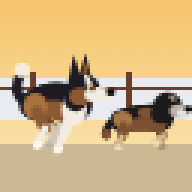
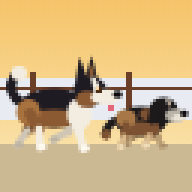
Vuelve a la animación anterior (patas articuladas, torso sin flexión)
Claude-Session: https://claude.ai/code/session_01MfGWskP1aoSAGPJyqTPNTu

Changed region(s): [[0.0312, 0.2812, 0.6562, 0.8125], [0.5312, 0.4688, 1.0, 0.7812], [0.5, 0.6875, 0.5312, 0.7188]]

diff --git a/index.html b/index.html
@@ -230,9 +230,8 @@ function ell(c, x, y, rx, ry, col, rot=0){ c.fillStyle=col; c.beginPath(); c.ell
 function rect(c, x, y, w, h, col){ c.fillStyle=col; c.fillRect(Math.round(x),Math.round(y),Math.round(w),Math.round(h)); }
 function poly(c, pts, col){ c.fillStyle=col; c.beginPath(); c.moveTo(pts[0],pts[1]); for(let i=2;i<pts.length;i+=2) c.lineTo(pts[i],pts[i+1]); c.closePath(); c.fill(); }
 
-// ---------- Perritas con columna flexible ----------
-// El galope de perros y gatos dobla la columna: se "recogen" (lomo arqueado, patas juntas bajo el cuerpo)
-// y se "estiran" (lomo largo, patas abiertas). Acá el torso es una curva que se arquea, se estira y se inclina.
+// ---------- Patas articuladas ----------
+// Ángulos medidos desde la vertical; positivo = hacia adelante. Cada pata tiene muslo, canilla y pie.
 function seg(c, x1, y1, x2, y2, w, col){ c.strokeStyle=col; c.lineWidth=w; c.lineCap="round"; c.beginPath(); c.moveTo(x1,y1); c.lineTo(x2,y2); c.stroke(); }
 function leg(c, hx, hy, L1, L2, a, b, w1, w2, c1, c2, paw){
   const kx = hx + Math.sin(a)*L1, ky = hy + Math.cos(a)*L1;
@@ -240,104 +239,108 @@ function leg(c, hx, hy, L1, L2, a, b, w1, w2, c1, c2, paw){
   seg(c, hx, hy, kx, ky, w1, c1); seg(c, kx, ky, px, py, w2, c2);
   ell(c, px + 0.6, py - 0.2, w2*0.62, w2*0.42, paw);
 }
+// Ciclo de galope: apoyo (la pata va de adelante hacia atrás, recta) y vuelo (se dobla y vuelve adelante)
 function gait(p, front){
   p = ((p % 1) + 1) % 1;
-  if(p < 0.5){ const u = p/0.5; return front ? [0.6 - 1.2*u, -0.05] : [0.7 - 1.2*u, -0.5 + 0.35*u]; }
-  const u = (p-0.5)/0.5, s = Math.sin(Math.PI*u);
-  return front ? [-0.6 + 1.2*u + 0.2*s, -1.6*s] : [-0.5 + 1.2*u, -0.15 - 1.3*s];
+  if(p < 0.55){ const u = p/0.55; return front ? [0.5 - 1.05*u, 0] : [0.55 - 1.0*u, -0.45 + 0.25*u]; }
+  const u = (p-0.55)/0.45, s = Math.sin(Math.PI*u);
+  return front ? [-0.55 + 1.05*u + 0.25*s, -1.5*s] : [-0.45 + 1.0*u, -0.2 - 1.2*s];
 }
-// pose: devuelve todo lo que cambia con el movimiento
-function pose(st, ph){
-  const P = Math.PI*2;
-  if(st==="run"){
-    const s = Math.cos(P*ph);                 // +1 recogida, -1 estirada
-    return { flex:s, arch: 1.2 + 2.6*Math.max(0,s), pitch: -0.07*Math.sin(P*ph), lift: 1.4*Math.max(0,-s) + 0.6*Math.abs(Math.sin(P*ph)),
-      legs: [gait(ph, false), gait(ph+.08, false), gait(ph+.5, true), gait(ph+.58, true)], tail: Math.sin(P*ph) };
-  }
-  if(st==="air") return { flex:-1, arch:.6, pitch:-.12, lift:0, legs:[[-0.95,0.5],[-0.8,0.4],[1.0,-0.9],[0.85,-0.7]], tail:-.6 };
-  if(st==="duck") return { flex:.6, arch:.4, pitch:.04, lift:-1, legs:[[0.95,-2.2],[0.85,-2.1],[1.3,-2.4],[1.2,-2.3]], tail:.3, duck:true };
-  return { flex:0, arch:1.4, pitch:0, lift:0, legs:[[0.25,-0.35],[0.1,-0.3],[0.05,0],[-0.05,0]], tail:0 };
-}
-function torso(c, H, S, arch, rH, rS, colBack, colBelly, belly){
-  const cx = (H[0]+S[0])/2, cy = (H[1]+S[1])/2 - arch;
-  const pts = [];
-  for(let i=0;i<=8;i++){ const u=i/8, v=1-u; pts.push([v*v*H[0]+2*v*u*cx+u*u*S[0], v*v*H[1]+2*v*u*cy+u*u*S[1], rH+(rS-rH)*u]); }
-  pts.forEach(([x,y,r])=> ell(c, x, y, r*1.15, r, colBack));
-  if(belly) pts.forEach(([x,y,r],i)=>{ if(i>0&&i<8) ell(c, x, y+r*.55, r*.95, r*.5, colBelly); });
-  return pts;
-}
-
-function drawDog(c, x, y, t, st, D){
-  const ph = (t*D.freq) % 1, p = pose(st, ph);
-  c.save(); c.translate(x, y);
-  const baseY = -D.height + (p.duck ? D.duckDrop : 0) - p.lift;
-  const reach = D.span/2 + p.flex*(-D.flexAmt);          // recogida: cadera y hombro más cerca
-  const mid = D.mid;
-  let H = [mid - reach, baseY + D.hipOff], S = [mid + reach, baseY];
-  // inclinación del cuerpo (pitch) alrededor del centro
-  const rot = (P)=>{ const dx=P[0]-mid, dy=P[1]-baseY; return [mid + dx*Math.cos(p.pitch) - dy*Math.sin(p.pitch), baseY + dx*Math.sin(p.pitch) + dy*Math.cos(p.pitch)]; };
-  H = rot(H); S = rot(S);
-  const L1 = p.duck ? D.L1*.85 : D.L1, L2 = p.duck ? D.L2*.85 : D.L2;
-  const hipP = [H[0], H[1] + D.rH*.45], shP = [S[0], S[1] + D.rS*.55];
-  // patas lejanas
-  leg(c, hipP[0]+1, hipP[1], L1, L2, p.legs[1][0], p.legs[1][1], D.w1, D.w2, D.farHind[0], D.farHind[1], D.farHind[2]);
-  leg(c, shP[0]-1, shP[1], L1, L2, p.legs[3][0], p.legs[3][1], D.w1*.9, D.w2, D.farFront[0], D.farFront[1], D.farFront[2]);
-  // cola
-  D.tail(c, H, D.rH, p);
-  // torso flexible
-  torso(c, H, S, p.arch, D.rH, D.rS, D.back, D.belly, true);
-  D.marks(c, H, S, p);
-  // patas cercanas
-  leg(c, hipP[0], hipP[1], L1, L2, p.legs[0][0], p.legs[0][1], D.w1*1.1, D.w2*1.05, D.hind[0], D.hind[1], D.hind[2]);
-  leg(c, shP[0], shP[1], L1, L2, p.legs[2][0], p.legs[2][1], D.w1, D.w2*1.05, D.front[0], D.front[1], D.front[2]);
-  // cabeza unida al hombro; se balancea al revés que el cuerpo
-  const bob = st==="run" ? Math.sin(Math.PI*2*ph + 1)*.8 : 0;
-  c.translate(S[0] - D.headRef[0] + (p.duck ? D.duckHead[0] : 0), S[1] - D.headRef[1] + bob + (p.duck ? D.duckHead[1] : 0));
-  D.head(c, st, ph, p);
-  c.restore();
+function legPose(st, t, phase, front){
+  if(st==="run") return gait(t*3.4 + phase, front);
+  if(st==="air") return front ? [0.95, -0.9] : [-0.9, 0.5];          // en el aire: patas estiradas
+  if(st==="duck") return front ? [1.25, -2.3] : [0.9, -2.1];         // agachada: patas recogidas
+  return front ? [0.05, 0] : [0.25, -0.35];
 }
 
 // Lizy: grande, lomo negro, mejillas cafés, franja blanca en la cara, pecho y patas blancas, cola enroscada con punta blanca
-const LIZY = { freq:3.0, height:15, span:15, flexAmt:2.2, mid:14, hipOff:.5, rH:5.2, rS:6.2, L1:6.2, L2:6.4, w1:3.6, w2:2.5, duckDrop:7,
-  headRef:[22,-14], duckHead:[3,4],
-  back:"#1f1b22", belly:"#8b5a33",
-  hind:["#8b5a33","#f3ede1","#fffaf0"], front:["#f3ede1","#f3ede1","#fffaf0"],
-  farHind:["#6d4527","#cfc6b6","#bdb3a2"], farFront:["#cfc6b6","#cfc6b6","#bdb3a2"],
-  tail(c, H, r, p){ const tw=p.tail*1.5, K="#1f1b22"; c.strokeStyle=K; c.lineWidth=3.2; c.lineCap="round"; c.beginPath();
-    if(p.duck){ c.moveTo(H[0]-r*.8, H[1]-1); c.quadraticCurveTo(H[0]-8, H[1]-2, H[0]-7, H[1]-7); c.stroke(); ell(c, H[0]-7, H[1]-7.5, 2.6, 2.4, "#f3ede1"); }
-    else { c.moveTo(H[0]-r*.8, H[1]-1); c.quadraticCurveTo(H[0]-8+tw, H[1]-5, H[0]-4+tw, H[1]-11); c.stroke(); ell(c, H[0]-4+tw, H[1]-11.5, 2.6, 2.4, "#f3ede1"); } },
-  marks(c, H, S, p){ ell(c, H[0]-.5, H[1]+.5, 4, 4.4, "#a8723f"); ell(c, S[0]+1, S[1]+1.5, 4.2, 5.4, "#f3ede1"); },
-  head(c, st, ph, p){
-    const K="#1f1b22", B="#8b5a33", Wt="#f3ede1";
-    if(p.duck){ poly(c,[22,-22.5,18,-26,24.5,-23.5],K); poly(c,[24,-23,20.5,-27,27,-23.5],K); poly(c,[23.5,-23.5,21.5,-25.5,25.5,-23.8],B); }
-    else { const ear = st==="run" ? Math.sin(Math.PI*2*ph)*.6 : 0;
-      poly(c,[21,-22,22.5-ear,-31,25.5,-23],K); poly(c,[24,-22,26.5-ear,-31.5,29,-22],K); poly(c,[25.2,-23.5,26.5-ear,-29,27.8,-23.5],B); }
-    ell(c,23.5,-16.5,4,4.5,K);            // cuello
-    ell(c,26,-19.5,5.6,5,K); ell(c,25,-17,3.6,2.8,B); ell(c,31,-17.6,4.6,2.6,Wt);
-    poly(c,[26.2,-24.2,27.6,-24.2,30,-19.5,27.5,-19],Wt); ell(c,35.2,-18.4,1.5,1.3,"#0d0b0e");
-    rect(c,27.6,-21.2,1.6,1.6,"#4a2a12"); rect(c,28,-21.2,.7,.7,"#ffd9a8");
-    if(st==="run" && Math.sin(Math.PI*2*ph) > -.2) rect(c,31.5,-15.4,2.2,2.6,"#e5677a");
+function drawLizy(c, x, y, t, st){
+  const K="#1f1b22", B="#8b5a33", Bl="#a8723f", Wt="#f3ede1", N="#0d0b0e";
+  const run = st==="run", duck = st==="duck";
+  const cyc = t*3.4, bounce = run ? Math.abs(Math.sin(cyc*Math.PI))*1.6 : 0;
+  const drop = duck ? 7 : 0;
+  c.save(); c.translate(x, y);
+  const by = -14 + drop - bounce;                 // centro del cuerpo
+  const hipB = [6, by+2], hipF = [21, by+2];
+  const L1 = duck ? 5 : 6, L2 = duck ? 5 : 6;
+  // patas del lado lejano (más oscuras)
+  let [a,b] = legPose(st, t, .5, false); leg(c, hipB[0]+1.5, hipB[1], L1, L2, a, b, 3.4, 2.4, "#6d4527", "#cfc6b6", "#bdb3a2");
+  [a,b] = legPose(st, t, .62, true);   leg(c, hipF[0]-1, hipF[1], L1, L2, a, b, 3.2, 2.4, "#cfc6b6", "#cfc6b6", "#bdb3a2");
+  // cola: enroscada; agachada queda más baja
+  c.strokeStyle=K; c.lineWidth=3.2; c.lineCap="round"; c.beginPath();
+  const tw = run ? Math.sin(cyc*Math.PI*2)*1.2 : 0;
+  if(duck){ c.moveTo(4, by-1); c.quadraticCurveTo(-3, by-3, -2, by-8); } else { c.moveTo(4, by-1); c.quadraticCurveTo(-3+tw, by-5, 1+tw, by-11); }
+  c.stroke(); ell(c, duck ? -1.8 : 2.2+tw, duck ? by-8.5 : by-11.5, 2.6, 2.4, Wt);
+  // cuerpo (se estira un poco al correr)
+  const stretch = run ? Math.sin(cyc*Math.PI*2)*.8 : 0;
+  ell(c, 14, by, 11.5 + stretch, duck ? 5.5 : 6.5, K);
+  ell(c, 14, by+3.5, 9, 3, B);
+  ell(c, 5.5, by+1.5, 4, 4.5, Bl);
+  ell(c, 22.5, by+2, 4.2, 5.5, Wt);
+  // patas del lado cercano
+  [a,b] = legPose(st, t, 0, false); leg(c, hipB[0], hipB[1], L1, L2, a, b, 3.8, 2.6, B, Wt, "#fffaf0");
+  [a,b] = legPose(st, t, .12, true); leg(c, hipF[0], hipF[1], L1, L2, a, b, 3.4, 2.6, Wt, Wt, "#fffaf0");
+  // cabeza: agachada va más baja y estirada hacia adelante, orejas hacia atrás
+  const hb = run ? Math.sin(cyc*Math.PI*2)*.6 : 0;
+  const hx = duck ? 3 : 0, hy = (duck ? 9 : 0) + hb + (by + 14);
+  c.translate(hx, hy);
+  if(duck){
+    poly(c, [22,-22.5, 18,-26, 24.5,-23.5], K);       // orejas echadas hacia atrás
+    poly(c, [24,-23, 20.5,-27, 27,-23.5], K);
+    poly(c, [23.5,-23.5, 21.5,-25.5, 25.5,-23.8], B);
+  } else {
+    poly(c, [21,-22, 22.5,-31, 25.5,-23], K);
+    poly(c, [24,-22, 26.5,-31.5, 29,-22], K);
+    poly(c, [25.2,-23.5, 26.5,-29, 27.8,-23.5], B);
   }
-};
+  ell(c, 26, -19.5, 5.6, 5, K);
+  ell(c, 25, -17, 3.6, 2.8, B);
+  ell(c, 31, -17.6, 4.6, 2.6, Wt);
+  poly(c, [26.2,-24.2, 27.6,-24.2, 30,-19.5, 27.5,-19], Wt);
+  ell(c, 35.2, -18.4, 1.5, 1.3, N);
+  rect(c, 27.6, -21.2, 1.6, 1.6, "#4a2a12");
+  rect(c, 28, -21.2, .7, .7, "#ffd9a8");
+  if(run && Math.sin(cyc*Math.PI*2) > 0){ rect(c, 31.5, -15.4, 2.2, 2.4, "#e5677a"); }
+  c.restore();
+}
+
 // Camila: chiquita, negra con café, hocico canoso, orejas caídas, patas color crema
-const CAMILA = { freq:3.6, height:9, span:10, flexAmt:1.4, mid:9, hipOff:.3, rH:3.8, rS:4.4, L1:3.9, L2:3.9, w1:2.7, w2:2.1, duckDrop:3.5,
-  headRef:[13.5,-8.5], duckHead:[2,2.5],
-  back:"#1d1a1c", belly:"#7d5232",
-  hind:["#7d5232","#d8b98c","#efdcb8"], front:["#7d5232","#d8b98c","#efdcb8"],
-  farHind:["#5d3c24","#b89c74","#a88f6c"], farFront:["#5d3c24","#b89c74","#a88f6c"],
-  tail(c, H, r, p){ const tw=p.tail*1.4; c.strokeStyle="#1d1a1c"; c.lineWidth=2.6; c.lineCap="round"; c.beginPath(); c.moveTo(H[0]-r*.7, H[1]); c.quadraticCurveTo(H[0]-5, H[1], H[0]-6, H[1]+3.5+tw); c.stroke(); ell(c, H[0]-5.6, H[1]+3.5+tw, 1.6, 1.8, "#7d5232"); },
-  marks(c, H, S, p){ ell(c, H[0]-.3, H[1]-.5, 3.2, 2.8, "#a77748"); ell(c, (H[0]+S[0])/2+2, (H[1]+S[1])/2-p.arch*.6-1.5, 3.2, 1.8, "#7d5232"); },
-  head(c, st, ph, p){
-    const K="#1d1a1c", G="#b9b2a6";
-    ell(c,14.5,-10,3.4,3.6,K);            // cuello
-    ell(c,16.5,-12.5,4.8,4.4,K); ell(c,20.4,-10.8,3.3,2.3,G); ell(c,21.5,-10,2,1.3,"#e9e3d6"); ell(c,23.4,-11.4,1.3,1.1,"#0d0b0e");
-    const flap = st==="run" ? Math.sin(Math.PI*2*ph)*.35 : 0;
-    ell(c,13.6,-11.3,1.9,3.6,K,.25+flap+(p.duck?.6:0));
-    rect(c,17.6,-14.6,1.4,1.4,"#2a1a10"); rect(c,17.9,-14.6,.6,.6,"#e8d0b0"); rect(c,17.2,-16.2,2.4,.9,G);
-  }
-};
-function drawLizy(c, x, y, t, st){ drawDog(c, x, y, t, st, LIZY); }
-function drawCamila(c, x, y, t, st){ drawDog(c, x, y, t, st, CAMILA); }
+function drawCamila(c, x, y, t, st){
+  const K="#1d1a1c", B="#7d5232", Bt="#a77748", G="#b9b2a6", Wt="#e9e3d6", N="#0d0b0e", Pw="#d8b98c";
+  const run = st==="run", duck = st==="duck";
+  const tt = t*1.15, cyc = tt*3.4, bounce = run ? Math.abs(Math.sin(cyc*Math.PI))*1.1 : 0;   // patas cortas: pasos más rápidos
+  const drop = duck ? 4 : 0;
+  c.save(); c.translate(x, y);
+  const by = -8.5 + drop - bounce;
+  const hipB = [4, by+1.5], hipF = [13.5, by+1.5];
+  const L1 = duck ? 3.4 : 3.8, L2 = duck ? 3.2 : 3.8;
+  let [a,b] = legPose(st, tt, .5, false); leg(c, hipB[0]+1, hipB[1], L1, L2, a, b, 2.6, 2, "#5d3c24", "#b89c74", "#a88f6c");
+  [a,b] = legPose(st, tt, .62, true);   leg(c, hipF[0]-1, hipF[1], L1, L2, a, b, 2.4, 2, "#5d3c24", "#b89c74", "#a88f6c");
+  // cola peluda que se mueve
+  const tw = run ? Math.sin(cyc*Math.PI*2)*1.4 : 0;
+  c.strokeStyle=K; c.lineWidth=2.6; c.lineCap="round"; c.beginPath(); c.moveTo(2.5, by-.5); c.quadraticCurveTo(-2, by-.5, -3, by+3.5+tw); c.stroke();
+  ell(c, -2.6, by+3.5+tw, 1.6, 1.8, B);
+  // cuerpo
+  ell(c, 9, by, 8.5, duck ? 4.2 : 5, K);
+  ell(c, 9, by+2.5, 6.5, 2.4, B);
+  ell(c, 4, by-1, 3.4, 3, Bt);
+  ell(c, 12, by-2.5, 3.5, 2, B);
+  [a,b] = legPose(st, tt, 0, false);  leg(c, hipB[0], hipB[1], L1, L2, a, b, 2.8, 2.2, B, Pw, "#efdcb8");
+  [a,b] = legPose(st, tt, .12, true); leg(c, hipF[0], hipF[1], L1, L2, a, b, 2.6, 2.2, B, Pw, "#efdcb8");
+  // cabeza
+  const hb = run ? Math.sin(cyc*Math.PI*2)*.5 : 0;
+  c.translate(duck ? 2 : 0, (duck ? 5 : 0) + hb + (by + 8.5));
+  ell(c, 16.5, -12.5, 4.8, 4.4, K);
+  ell(c, 20.4, -10.8, 3.3, 2.3, G);
+  ell(c, 21.5, -10, 2, 1.3, Wt);
+  ell(c, 23.4, -11.4, 1.3, 1.1, N);
+  const flap = run ? Math.sin(cyc*Math.PI*2)*.25 : 0;
+  ell(c, 13.6, -11.3, 1.9, 3.6, K, .25 + flap + (duck ? .6 : 0));
+  rect(c, 17.6, -14.6, 1.4, 1.4, "#2a1a10");
+  rect(c, 17.9, -14.6, .6, .6, "#e8d0b0");
+  rect(c, 17.2, -16.2, 2.4, .9, G);
+  c.restore();
+}
 
 // ---------- Escenario ----------
 const SKY = [
